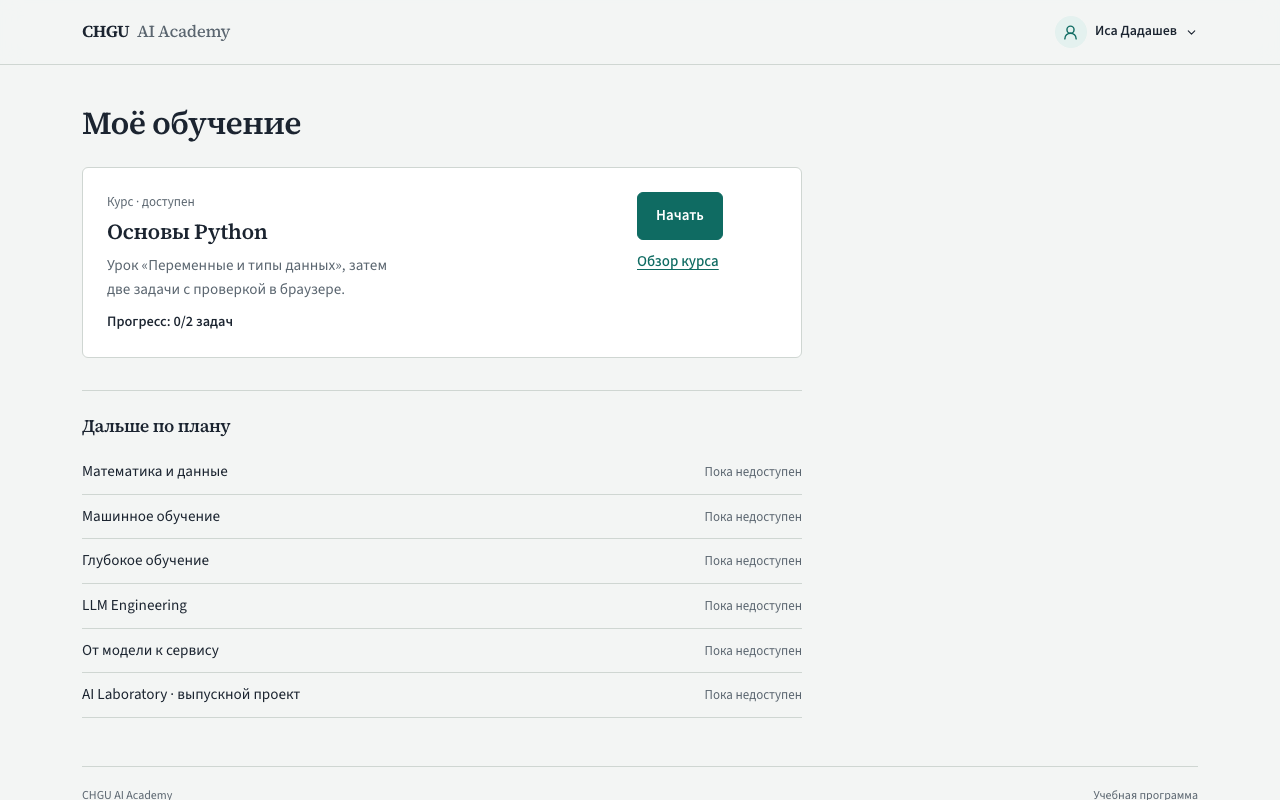
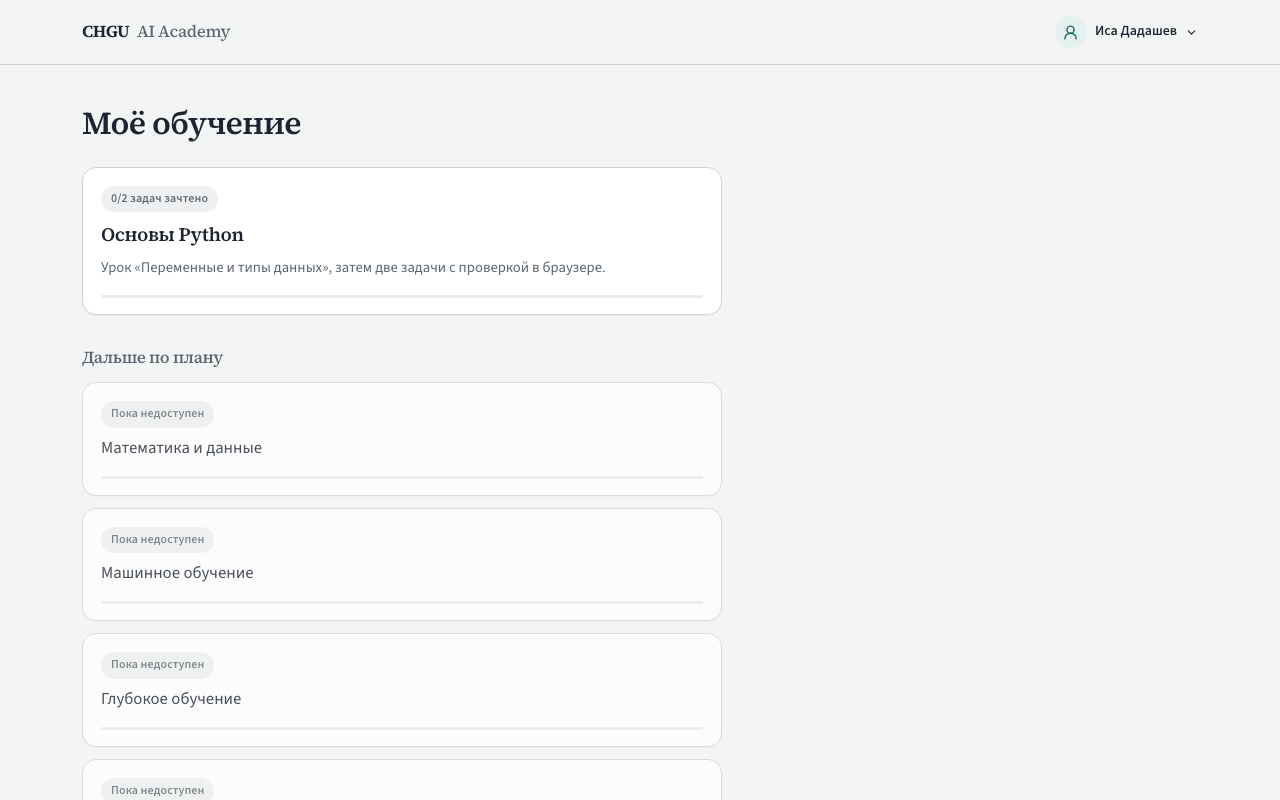
Match home course cards to LMS list pattern.
Remove Start/Continue buttons; make the course card the click target with accepted-task badge and progress bar.

diff --git a/src/app/globals.css b/src/app/globals.css
@@ -132,21 +132,50 @@ input[type="radio"] { accent-color: var(--accent); width: 16px; height: 16px; }
 .page-title p { font-size: 1rem; max-width: 720px; }
 .page-title .eyebrow { margin-bottom: 10px; }
 
-/* Cabinet home */
-.cabinet-home { padding-top: clamp(24px, 4vw, 40px); max-width: 720px; }
+/* Cabinet home — LMS-style course cards (organization only, not Yandex brand) */
+.cabinet-home { padding-top: clamp(24px, 4vw, 40px); max-width: 640px; }
 .cabinet-home-header { margin-bottom: var(--space-3); }
 .cabinet-home-header h1 { font-size: clamp(1.6rem, 1.5vw + 1rem, 2rem); }
 .course-card {
-  display: flex; flex-wrap: wrap; justify-content: space-between; gap: var(--space-3);
-  padding: var(--space-3); border: 1px solid var(--line); border-radius: var(--radius); background: var(--raised);
+  display: flex; flex-direction: column; gap: 10px;
+  padding: 18px 18px 16px;
+  border: 1px solid var(--line); border-radius: 14px; background: var(--raised);
+  box-shadow: 0 1px 0 color-mix(in oklab, var(--ink) 4%, transparent);
 }
-.course-card-kicker { font-size: 0.8125rem; color: var(--muted); margin-bottom: 6px; }
-.course-card-title { font-size: 1.35rem; margin-bottom: 8px; }
-.course-card-desc { color: var(--muted); max-width: 40ch; margin-bottom: 10px; font-size: 0.95rem; }
-.course-card-meta { color: var(--ink); font-size: 0.9rem; font-weight: 550; }
-.course-card-actions { display: flex; flex-direction: column; align-items: flex-start; gap: 10px; min-width: 140px; }
-.cabinet-plan { margin-top: var(--space-4); padding-top: var(--space-3); border-top: 1px solid var(--line); }
-.cabinet-plan h2 { font-size: 1.1rem; margin-bottom: 12px; }
+.course-card-link {
+  text-decoration: none; color: inherit;
+  transition: border-color 160ms ease, box-shadow 160ms ease;
+}
+.course-card-link:hover {
+  border-color: color-mix(in oklab, var(--accent) 35%, var(--line));
+  box-shadow: 0 6px 18px color-mix(in oklab, var(--ink) 6%, transparent);
+}
+.course-card-link:focus-visible {
+  outline: 2px solid var(--accent); outline-offset: 3px;
+}
+.course-card-badge {
+  display: inline-flex; align-self: flex-start;
+  margin: 0; padding: 4px 10px;
+  border-radius: 999px; background: color-mix(in oklab, var(--ink) 6%, var(--raised));
+  color: var(--muted); font-size: 0.75rem; font-weight: 550; letter-spacing: 0.01em;
+}
+.course-card-title { font-size: 1.2rem; margin: 0; line-height: 1.3; }
+.course-card-desc { color: var(--muted); margin: 0; font-size: 0.92rem; line-height: 1.45; }
+.course-card-progress {
+  margin-top: 6px; height: 3px; border-radius: 999px;
+  background: color-mix(in oklab, var(--ink) 8%, var(--raised)); overflow: hidden;
+}
+.course-card-progress > span {
+  display: block; height: 100%; border-radius: inherit; background: var(--accent);
+}
+.course-card-planned { opacity: 0.78; cursor: default; }
+.course-card-planned .course-card-title { font-size: 1.05rem; color: var(--ink); }
+.cabinet-plan { margin-top: var(--space-4); }
+.cabinet-plan h2 { font-size: 1.05rem; margin-bottom: 14px; color: var(--muted); font-weight: 550; }
+.cabinet-module-list {
+  list-style: none; margin: 0; padding: 0;
+  display: grid; gap: 12px;
+}
 .cabinet-plan-list { list-style: none; margin: 0; padding: 0; }
 .cabinet-plan-list li {
   display: flex; justify-content: space-between; gap: 16px; align-items: baseline;
@@ -368,9 +397,8 @@ progress { width: 100%; height: 5px; accent-color: var(--accent); }
   .brand { font-size: 0.95rem; }
   .profile-name { max-width: 12ch; overflow: hidden; text-overflow: ellipsis; }
   .user-popover { top: 44px; }
-  .course-card { padding: 18px; }
-  .course-card-actions { width: 100%; }
-  .course-card-actions .button { width: 100%; justify-content: center; }
+  .course-card { padding: 16px; }
+  .cabinet-home { max-width: none; }
   .breadcrumbs { padding: 20px 0; gap: 5px; font-size: 0.75rem; }
   .page-title { margin: 8px 0 20px; }
   .module > summary { gap: 12px; flex-wrap: wrap; padding: 16px 0; }

diff --git a/src/components/learning/home-continue.tsx b/src/components/learning/home-continue.tsx
@@ -10,48 +10,44 @@ export function CourseCard() {
   const [accepted, setAccepted] = useState(0);
   const [total, setTotal] = useState(2);
   const [href, setHref] = useState(`/learn/${variablesLesson.slug}`);
-  const [label, setLabel] = useState('Начать');
-  const [started, setStarted] = useState(false);
 
   useEffect(() => {
     const { state } = readLearningState();
     const progress = courseExerciseProgress(state);
     setAccepted(progress.accepted);
     setTotal(progress.total);
-    const learningStarted = hasStartedLearning(state);
-    setStarted(learningStarted);
-    if (learningStarted) {
-      setLabel('Продолжить');
+    if (hasStartedLearning(state)) {
       setHref(continueHref(state));
     } else {
-      setLabel('Начать');
       setHref(`/learn/${variablesLesson.slug}`);
     }
   }, []);
 
+  const percent = total > 0 ? Math.round((accepted / total) * 100) : 0;
+
   return (
-    <article className="course-card">
-      <div className="course-card-body">
-        <p className="course-card-kicker">Курс · доступен</p>
-        <h2 className="course-card-title">Основы Python</h2>
-        <p className="course-card-desc">
-          Урок «{variablesLesson.title}», затем две задачи с проверкой в браузере.
-        </p>
-        <p className="course-card-meta">
-          Прогресс: {accepted}/{total} задач
-        </p>
+    <Link
+      className="course-card course-card-link"
+      href={href}
+      aria-label={`Основы Python, ${accepted} из ${total} задач зачтено`}
+    >
+      <p className="course-card-badge">
+        {accepted}/{total} задач зачтено
+      </p>
+      <h2 className="course-card-title">Основы Python</h2>
+      <p className="course-card-desc">
+        Урок «{variablesLesson.title}», затем две задачи с проверкой в браузере.
+      </p>
+      <div
+        className="course-card-progress"
+        role="progressbar"
+        aria-valuenow={accepted}
+        aria-valuemin={0}
+        aria-valuemax={total}
+        aria-label={`Прогресс курса: ${accepted} из ${total}`}
+      >
+        <span style={{ width: `${percent}%` }} />
       </div>
-      <div className="course-card-actions">
-        <Link className="button" href={href}>
-          {label}
-        </Link>
-        <Link className="text-link" href="/program">
-          Обзор курса
-        </Link>
-        {started && accepted === total && total > 0 && (
-          <p className="small muted">Все доступные задачи приняты.</p>
-        )}
-      </div>
-    </article>
+    </Link>
   );
 }

diff --git a/src/app/page.tsx b/src/app/page.tsx
@@ -19,11 +19,14 @@ export default function Home() {
 
       <section className="cabinet-plan" aria-labelledby="plan-title">
         <h2 id="plan-title">Дальше по плану</h2>
-        <ul className="cabinet-plan-list">
+        <ul className="cabinet-module-list">
           {planned.map((module) => (
-            <li key={module.id}>
-              <span className="cabinet-plan-name">{module.title}</span>
-              <span className="cabinet-plan-status">Пока недоступен</span>
+            <li key={module.id} className="course-card course-card-planned" aria-disabled="true">
+              <p className="course-card-badge">Пока недоступен</p>
+              <p className="course-card-title">{module.title}</p>
+              <div className="course-card-progress" aria-hidden="true">
+                <span style={{ width: '0%' }} />
+              </div>
             </li>
           ))}
         </ul>

diff --git a/tasks/CURSOR_REPORT_CABINET.md b/tasks/CURSOR_REPORT_CABINET.md
@@ -10,7 +10,7 @@
 ## Что вместо
 - Шапка: бренд слева, профиль **Иса Дадашев** справа
 - Панель профиля: прогресс, баллы (100 × unique accepted), тема, подробный прогресс, сброс внизу
-- Главная: «Моё обучение» + карточка «Основы Python» с `N/2` и **Начать** / **Продолжить**
+- Главная: «Моё обучение» + кликабельная карточка «Основы Python» (`N/2 задач зачтено`, progress bar), без кнопок Начать/Продолжить (как у LMS-референса)
 - `/program` — обзор курса: Урок → Задача 1 → Задача 2 + план
 
 ## Проверки
